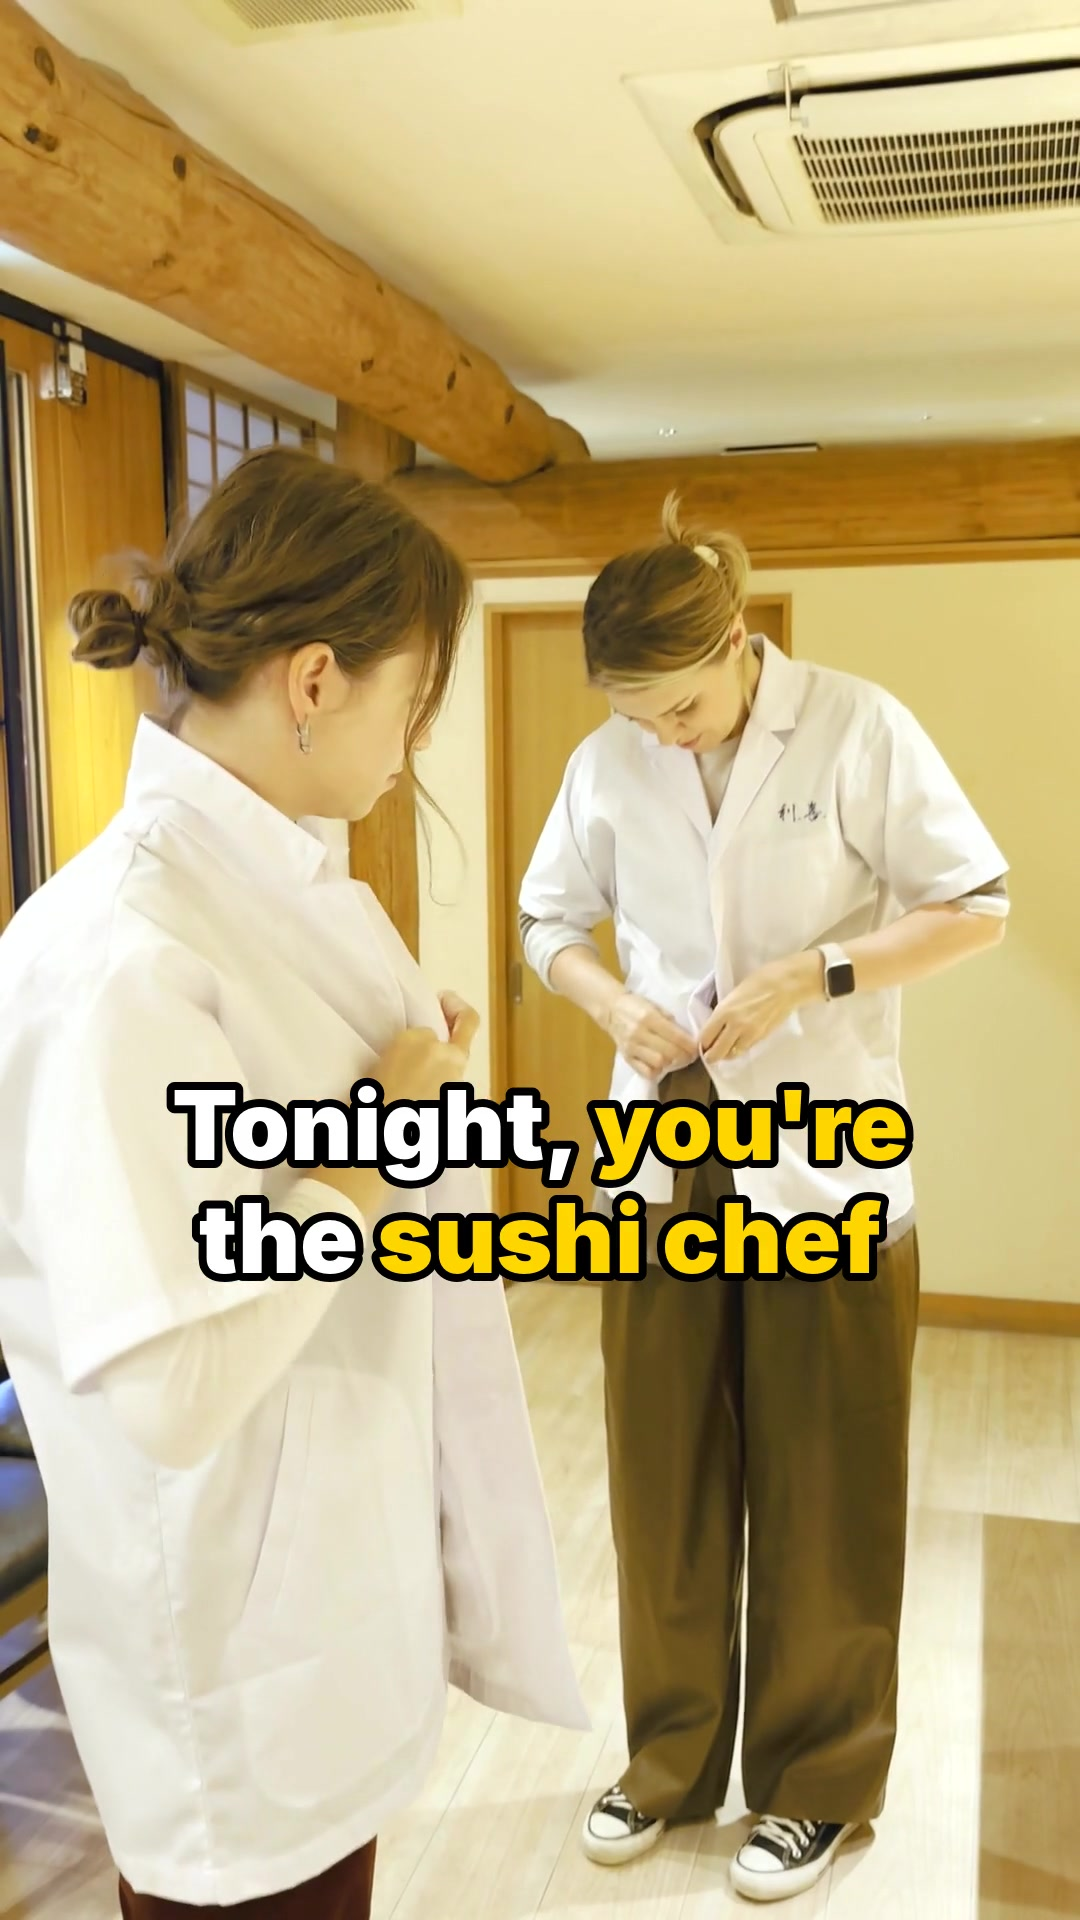
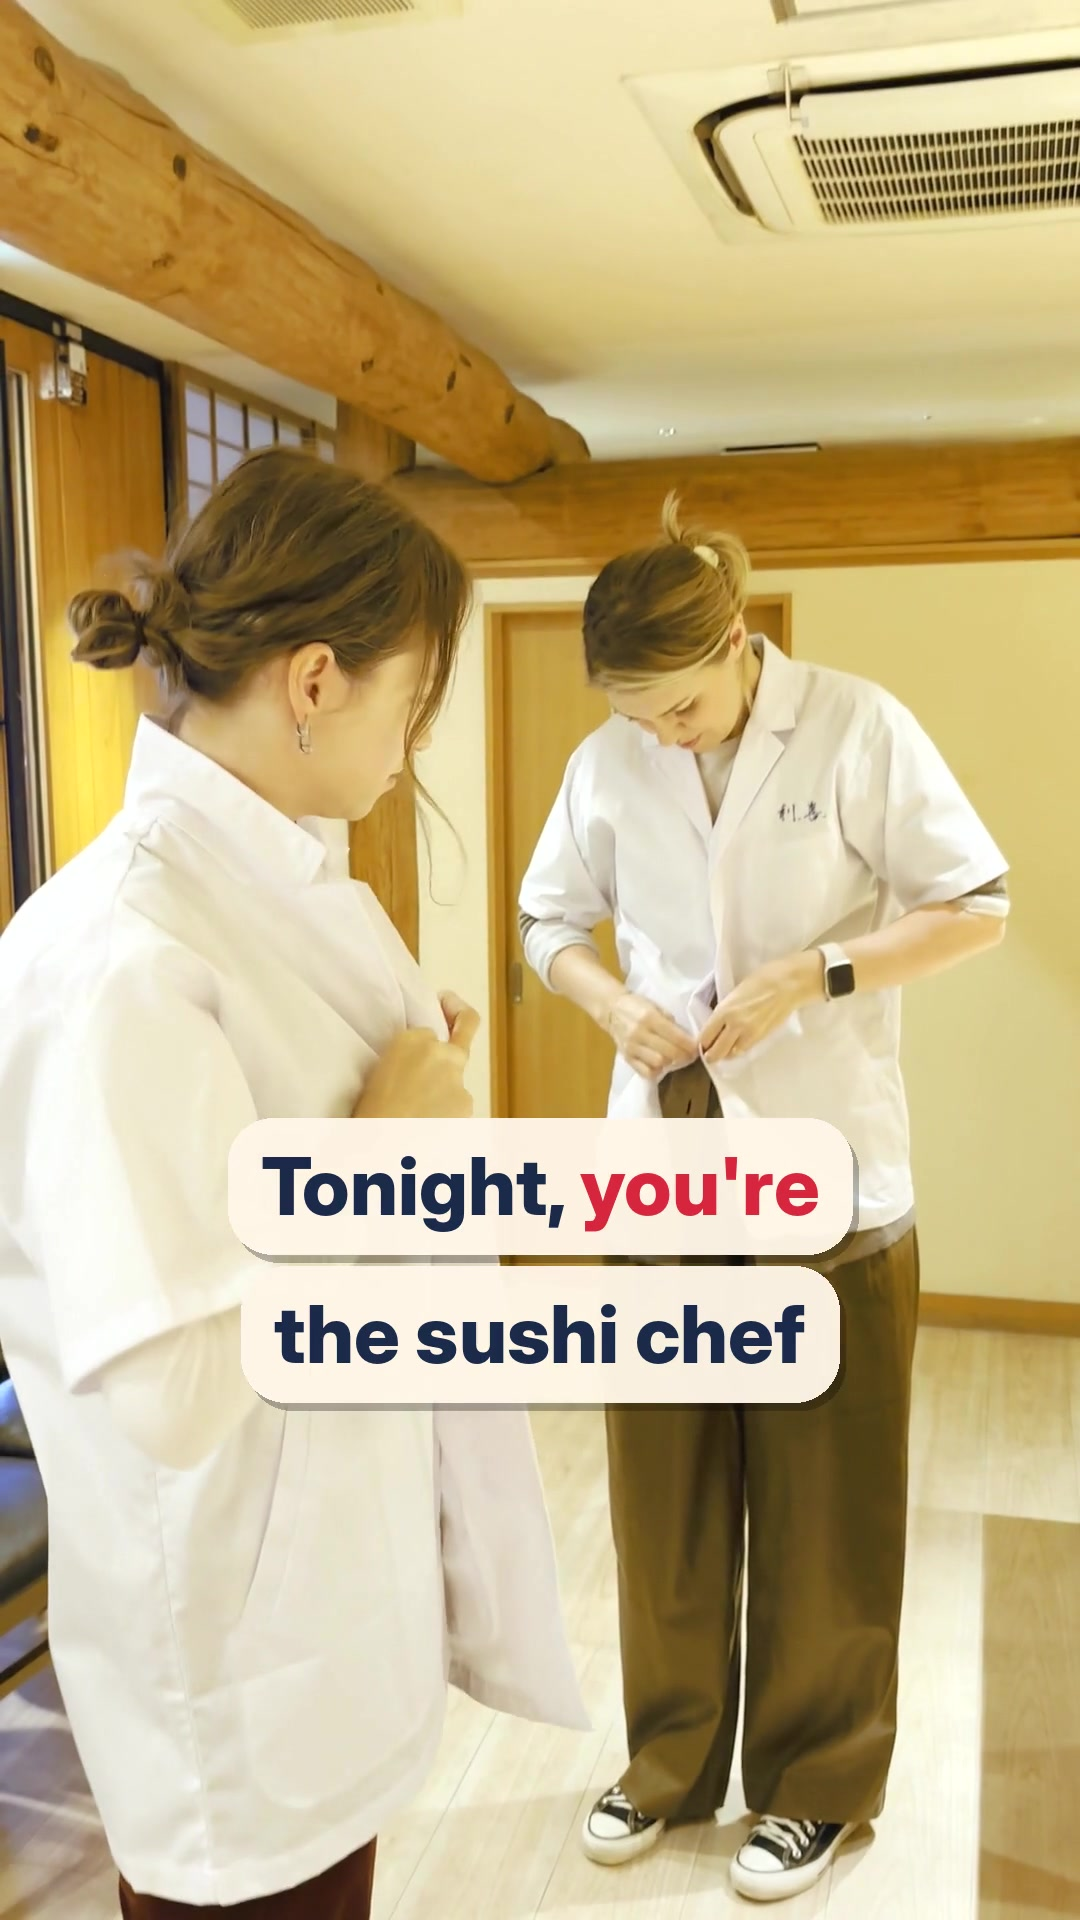
004：11/10の素材だけで25秒に、テロップをラベル風（クリーム×紺×赤）に変更
Claude-Session: https://claude.ai/code/session_01RyJ5xhuQ5T9iHaCgxofhZy

Changed region(s): [[0.1528, 0.5625, 0.8556, 0.75]]

diff --git a/pipeline/build_reel.py b/pipeline/build_reel.py
@@ -46,7 +46,43 @@ def find_src(name):
     sys.exit(f"source not found: {name} (looked in {FOOTAGE_DIRS})")
 
 
+LABEL_FONT = "/usr/share/fonts/opentype/inter/InterDisplay-ExtraBold.otf"
+NAVY, RED, CREAM = (27, 42, 74), (215, 38, 61), (255, 246, 232)
+
+
+def label_png(text, size, path, center_y):
+    """text_style "label" (2026-11-12, 004): each line sits on its own cream rounded box,
+    navy text, **word** in the brand red. Calmer, magazine-like alternative to the
+    white-with-black-outline captions."""
+    im = Image.new("RGBA", (W, H), (0, 0, 0, 0))
+    d = ImageDraw.Draw(im)
+    f = ImageFont.truetype(LABEL_FONT, size)
+    lines = text.split("\n")
+    pad_x, pad_y, gap = int(size * 0.42), int(size * 0.24), int(size * 0.16)
+    asc, desc = f.getmetrics()
+    box_h = asc + desc + pad_y * 2
+    y = center_y - (box_h * len(lines) + gap * (len(lines) - 1)) // 2
+    for line in lines:
+        parts = [(p, i % 2 == 1) for i, p in enumerate(re.split(r"\*\*", line)) if p]
+        widths = [d.textlength(p, font=f) for p, _ in parts]
+        tw = sum(widths)
+        x0 = (W - tw) / 2 - pad_x
+        sh = Image.new("RGBA", (W, H), (0, 0, 0, 0))
+        ImageDraw.Draw(sh).rounded_rectangle([x0 + 6, y + 8, x0 + tw + 2 * pad_x + 6, y + box_h + 8],
+                                             radius=box_h // 3, fill=(0, 0, 0, 70))
+        im.alpha_composite(sh)
+        d.rounded_rectangle([x0, y, x0 + tw + 2 * pad_x, y + box_h], radius=box_h // 3, fill=CREAM + (245,))
+        x = x0 + pad_x
+        for (p, hl), w in zip(parts, widths):
+            d.text((x, y + pad_y), p, font=f, fill=RED if hl else NAVY)
+            x += w
+        y += box_h + gap
+    im.save(path)
+
+
 def text_png(text, size, path):
+    if spec.get("text_style") == "label":
+        return label_png(text, size, path, spec.get("text_y", TEXT_CENTER_Y))
     im = Image.new("RGBA", (W, H), (0, 0, 0, 0))
     d = ImageDraw.Draw(im)
     f = ImageFont.truetype(FONT, size)

diff --git a/docs/video_style.md b/docs/video_style.md
@@ -24,6 +24,7 @@
 - 参考：初回投稿（白文字・小さめ・中央）と他社参考（太字・縁取り・キーワードだけ黄色・一文ずつ語る形式）
 - v2で採用：**太字の白文字＋黒縁取り、キーワードを黄色ハイライト**、画面の中央〜やや下（下端のUIエリアは避ける）
 - 一文ずつ短く区切ってテンポよく切り替える
+- **別スタイル「ラベル」**（004で採用、しゅん指定 2026-11-12「テロップの入れ方・色を変えて雰囲気を変えて」）：edit.json に `"text_style": "label", "text_y": 1260` を入れると、1行ずつクリーム色の角丸ボックスに紺の文字、`**語**` はロゴの赤。size は 74〜80。回ごとに縁取り白文字と使い分けて雰囲気を変える
 - 表記の正確さを毎回チェック（Tsukiji, Japanese など）
 
 ## 予約導線パート（全SNS共通）
